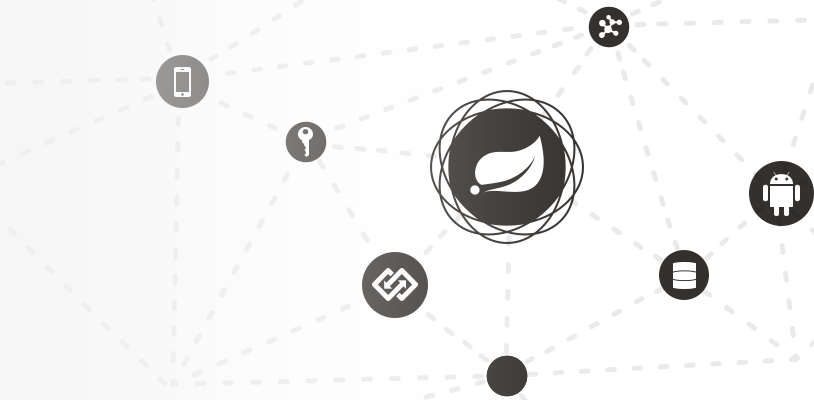
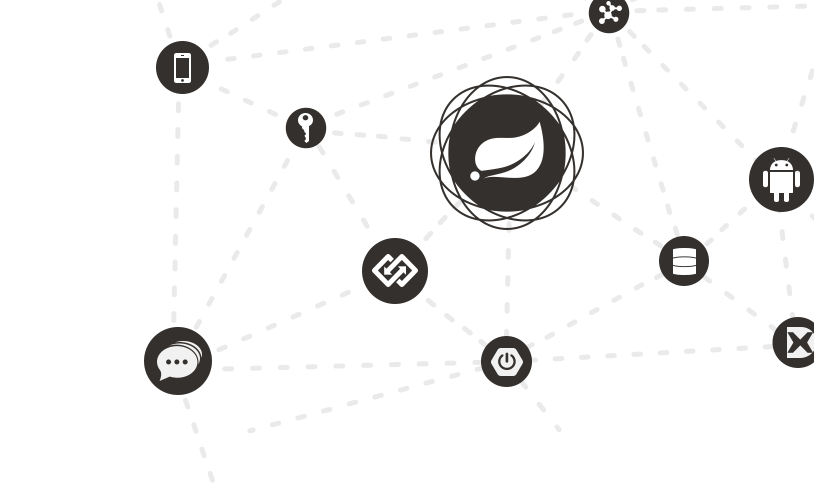
Updates to iconsprite, css, services, projects index, homepage-feature-projects image

diff --git a/src/main/resources/static/css/icons.css.css b/src/main/resources/static/css/icons.css.css
@@ -21,36 +21,36 @@
 .icon.project--logo.logo-spring-framework {
   width: 135px;
   height: 133px;
-  background-position: -483px 0;
+  background-position: 518px 837px;
   margin-top: 2px;
 }
 .icon.project--logo.logo-spring-security {
   width: 99px;
   height: 137px;
-  background-position: -483px -161px;
+  background-position: 519px 677px;
 }
 .icon.project--logo.logo-spring-data {
   width: 111px;
   height: 111px;
-  background-position: -483px -325px;
+  background-position: 519px 512px;
   margin-top: 13px;
 }
 .icon.project--logo.logo-spring-batch {
   width: 104px;
   height: 108px;
-  background-position: -641px 0;
+  background-position: 360px 837px;
   margin-top: 14px;
 }
 .icon.project--logo.logo-spring-integration {
   width: 145px;
   height: 104px;
-  background-position: -641px -161px;
+  background-position: 361px 677px;
   margin-top: 16px;
 }
 .icon.project--logo.logo-spring-amqp {
   width: 109px;
   height: 98px;
-  background-position: -641px -325px;
+  background-position: 361px 513px;
   margin: 19px;
 }
 .icon.project--logo.logo-spring-default {
@@ -62,18 +62,18 @@
 .icon.project--logo.logo-spring-mobile {
   width: 104px;
   height: 137px;
-  background-position: -805px -161px;
+  background-position: 196px 677px;
 }
 .icon.project--logo.logo-spring-android {
-  width: 104px;
+  width: 105px;
   height: 126px;
-  background-position: -805px -325px;
+  background-position: 196px 513px;
   margin-top: 10px;
 }
 .icon.project--logo.logo-spring-social {
   width: 130px;
   height: 100px;
-  background-position: -483px -481px;
+  background-position: 518px 357px;
   margin-top: 18px;
 }
 .icon.project--logo.logo-spring-hateoas {
@@ -94,6 +94,12 @@
   background-position: 532px 155px;
   margin-top: 19px;
 }
+.icon.project--logo.logo-spring-ldap {
+  width: 93px;
+  height: 107px;
+  background-position: 247px 944px;
+  margin-top: 19px;
+}
 .icon.project--logo.logo-spring-xd {
   width: 104px;
   height: 113px;
@@ -104,6 +110,18 @@
   width: 102px;
   height: 90px;
   background-position: 143px 837px;
+  margin-top: 23px;
+}
+.icon.project--logo.logo-grails {
+  width: 107px;
+  height: 100px;
+  background-position: 361px 944px;
+  margin-top: 23px;
+}
+.icon.project--logo.logo-groovy {
+  width: 183px;
+  height: 92px;
+  background-position: 546px 940px;
   margin-top: 23px;
 }
 .icon.icon-projects {
@@ -125,12 +143,12 @@
 .icon.icon-current-version {
   height: 13px;
   width: 42px;
-  background-position: -284px -520px;
+  background-position: 718px 317px;
 }
 .icon.icon-pre-release {
   height: 13px;
   width: 23px;
-  background-position: -344px -520px;
+  background-position: 657px 317px;
 }
 .icon.icon-ga-release {
   margin-left: 0 !important;

diff --git a/src/main/resources/static/css/tools.css.css b/src/main/resources/static/css/tools.css.css
@@ -18,11 +18,11 @@
 }
 .tool--container .tool--icon.sts-icon {
   width: 124px;
-  background-position: -194px 0;
+  background-position: 808px 838px;
 }
 .tool--container .tool--icon.ggts-icon {
   width: 96px;
-  background-position: -204px -140px;
+  background-position: 798px 697px;
 }
 .tool--container .tool--title {
   font-size: 18px;
@@ -277,11 +277,11 @@
 }
 .tool-versions--wrapper .tool-versions--icon--container .tool-versions--icon.sts-icon {
   width: 124px;
-  background-position: -194px 0;
+  background-position: 808px 838px;
 }
 .tool-versions--wrapper .tool-versions--icon--container .tool-versions--icon.ggts-icon {
   width: 96px;
-  background-position: -204px -140px;
+  background-position: 798px 697px;
 }
 .tool-versions--wrapper .tool-versions--icon--container .tool-versions--version {
   color: #f1f1f1;
@@ -313,19 +313,19 @@
 .tool-versions--wrapper .tool-versions--container .platform .platform--icon.windows-icon {
   width: 48px;
   height: 48px;
-  background-position: -364px -282px;
+  background-position: 638px 555px;
   margin-top: -12px;
 }
 .tool-versions--wrapper .tool-versions--container .platform .platform--icon.mac-icon {
   width: 46px;
   height: 56px;
-  background-position: -300px -282px;
+  background-position: 702px 554px;
   margin-top: -20px;
 }
 .tool-versions--wrapper .tool-versions--container .platform .platform--icon.linux-icon {
   width: 51px;
   height: 43px;
-  background-position: -300px -354px;
+  background-position: 702px 483px;
   margin-top: -7px;
 }
 .tool-versions--wrapper .tool-versions--container .platform h3 {
@@ -372,15 +372,16 @@
 }
 .eclipse-platform--container .platform--name .platform--icon-small.mac-icon {
   height: 28px;
-  background-position: -285px -406px;
+  background-position: 717px 432px;
 }
 .eclipse-platform--container .platform--name .platform--icon-small.windows-icon {
   height: 24px;
-  background-position: -328px -409px;
+  background-position: 673px 428px;
 }
 .eclipse-platform--container .platform--name .platform--icon-small.linux-icon {
   height: 21px;
-  background-position: -369px -412px;
+  background-position: 632px 425px;
+  width: 25px;
 }
 .eclipse-platform--container .platform--name h3 {
   display: inline-block;
@@ -460,10 +461,10 @@
   height: 58px;
 }
 .tools-right-pane .tools-logo-small.sts-logo {
-  background-position: -231px -367px;
+  background-position: 770px 470px;
 }
 .tools-right-pane .tools-logo-small.ggts-logo {
-  background-position: -231px -433px;
+  background-position: 770px 404px;
 }
 .tools-right-pane ul {
   margin: 0;

diff --git a/src/main/resources/templates/projects/index.html b/src/main/resources/templates/projects/index.html
@@ -127,10 +127,24 @@
         </a>
         <a class="project--container project--container--link" th:href="${project.siteUrl}" th:with="project=${projectMetadata.getProject('spring-ldap')}">
           <div class="project-logo--container">
-            <img src="/img/spring-project-ldap.png">
+            <div class="icon project--logo logo-spring-ldap"></div>
           </div>
           <div class="project--title">Spring LDAP</div>
           <p class="project--description">Simplifies the development of applications using LDAP using Spring's familiar template-based approach.</p>
+        </a>
+        <a class="project--container project--container--link" href="http://grails.org/" target="_blank">
+          <div class="project-logo--container">
+            <div class="icon project--logo logo-grails"></div>
+          </div>
+          <div class="project--title">Grails</div>
+          <p class="project--description">Builds on the Spring Framework to provide a full stack environment for building web applications using the Groovy language.</p>
+        </a>
+        <a class="project--container project--container--link" href="http://groovy.codehaus.org/" target="_blank">
+          <div class="project-logo--container">
+            <div class="icon project--logo logo-groovy"></div>
+          </div>
+          <div class="project--title">Groovy</div>
+          <p class="project--description">Simplifies the life of developers by bringing high productivity language features for static and dynamic programming, scripting, and authoring Domain-Specific Languages.</p>
         </a>
       </div>
       <div class="projects--wrapper project-aggregator top-separator">

diff --git a/src/main/resources/static/css/blog.css.css b/src/main/resources/static/css/blog.css.css
@@ -191,41 +191,40 @@
 }
 .social-btn--container .social-btn {
   background-image: url("../img/iconsprite.png");
-  background-repeat: no-repeat;
   display: inline-block;
   width: 36px;
   height: 36px;
   margin: 0 3.5%;
 }
 .social-btn--container .social-btn.twitter {
-  background-position: -1px -143px;
+  background-position: 1000px 694px;
 }
 .social-btn--container .social-btn.twitter:hover {
-  background-position: -84px -143px;
+  background-position: 917px 694px;
 }
 .social-btn--container .social-btn.googleplus {
-  background-position: -1px -220px;
+  background-position: 1000px 617px;
 }
 .social-btn--container .social-btn.googleplus:hover {
-  background-position: -84px -220px;
+  background-position: 917px 617px;
 }
 .social-btn--container .social-btn.linkedin {
-  background-position: -1px -297px;
+  background-position: 1000px 540px;
 }
 .social-btn--container .social-btn.linkedin:hover {
-  background-position: -84px -297px;
+  background-position: 917px 540px;
 }
 .social-btn--container .social-btn.facebook {
-  background-position: -1px -373px;
+  background-position: 1000px 464px;
 }
 .social-btn--container .social-btn.facebook:hover {
-  background-position: -84px -373px;
+  background-position: 917px 464px;
 }
 .social-btn--container .social-btn.youtube {
-  background-position: -1px -450px;
+  background-position: 1000px 387px;
 }
 .social-btn--container .social-btn.youtube:hover {
-  background-position: -84px -450px;
+  background-position: 917px 387px;
 }
 
 .promo-material {

diff --git a/src/main/resources/static/css/team.css.css b/src/main/resources/static/css/team.css.css
@@ -209,28 +209,28 @@
   background-image: url("../img/iconsprite.png");
 }
 .team-member--social--icon.twitter-small {
-  background-position: -314px -452px;
+  background-position: 687px 385px;
 }
 .team-member--social--icon.twitter-small:hover {
-  background-position: -314px -486px;
+  background-position: 687px 351px;
 }
 .team-member--social--icon.github-small {
-  background-position: -344px -452px;
+  background-position: 657px 385px;
 }
 .team-member--social--icon.github-small:hover {
-  background-position: -344px -486px;
+  background-position: 657px 351px;
 }
 .team-member--social--icon.speakerdeck-small {
-  background-position: -374px -452px;
+  background-position: 627px 385px;
 }
 .team-member--social--icon.speakerdeck-small:hover {
-  background-position: -374px -486px;
+  background-position: 627px 351px;
 }
 .team-member--social--icon.lanyrd-small {
-  background-position: -284px -452px;
+  background-position: 717px 385px;
 }
 .team-member--social--icon.lanyrd-small:hover {
-  background-position: -284px -486px;
+  background-position: 717px 351px;
 }
 .team-member--social--icon:last-child {
   margin-right: 0;

diff --git a/src/main/resources/templates/pages/services.html b/src/main/resources/templates/pages/services.html
@@ -8,7 +8,6 @@
     <div layout:fragment="header-container"></div>
     <div layout:fragment="content" class="container">
         <div class="main-body--wrapper">
-        </div>
             <div class="content--title">Services</div>
             <div class="content--container">
                 <h2>Spring Consulting</h2>
